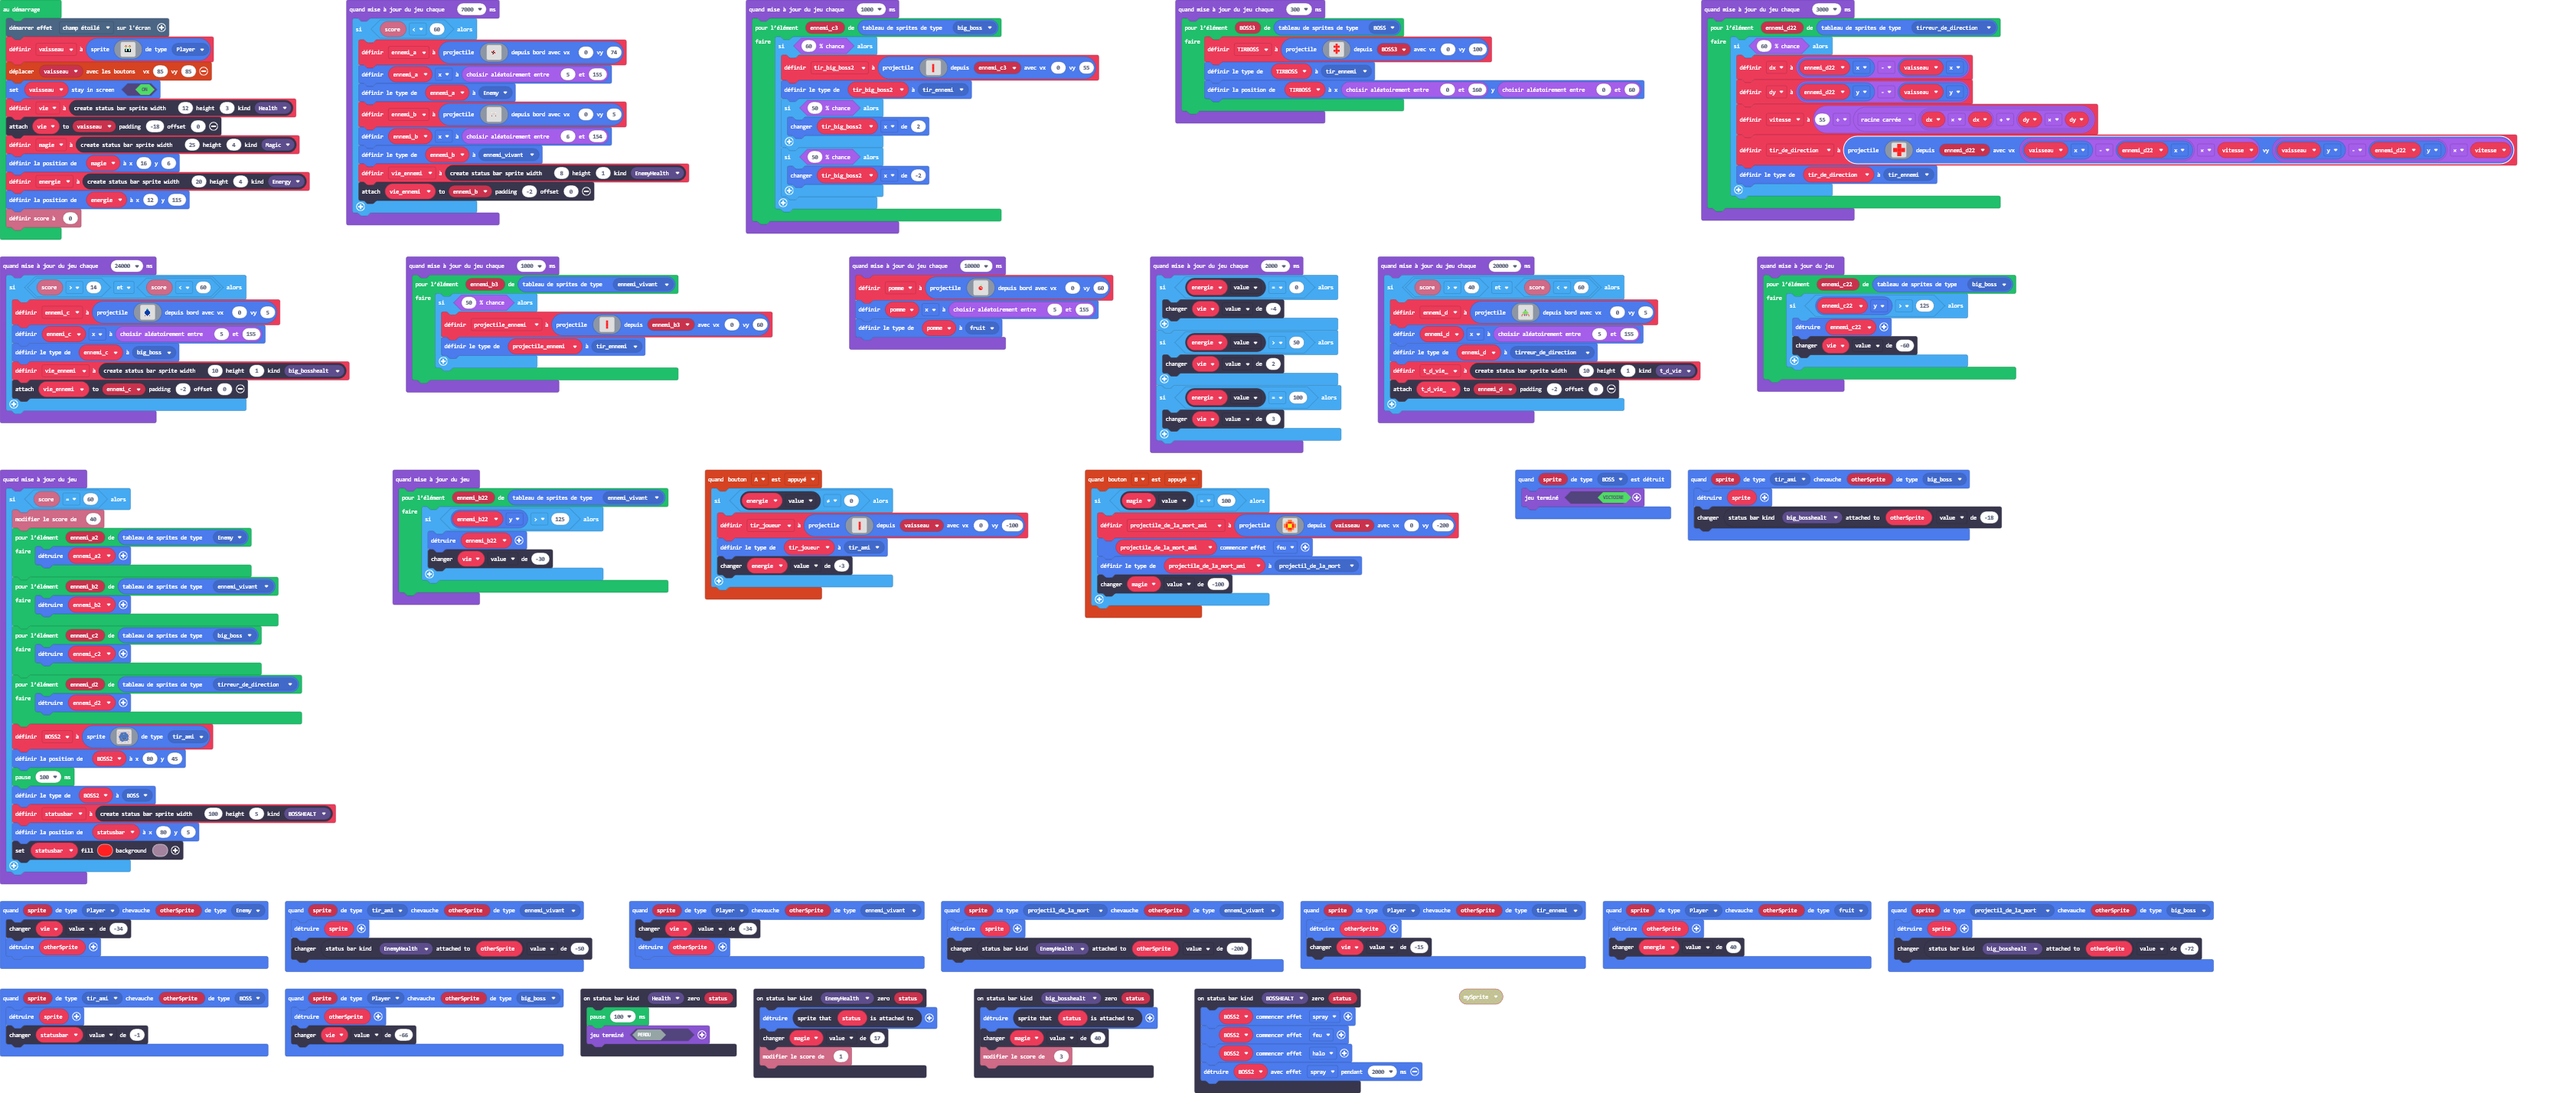
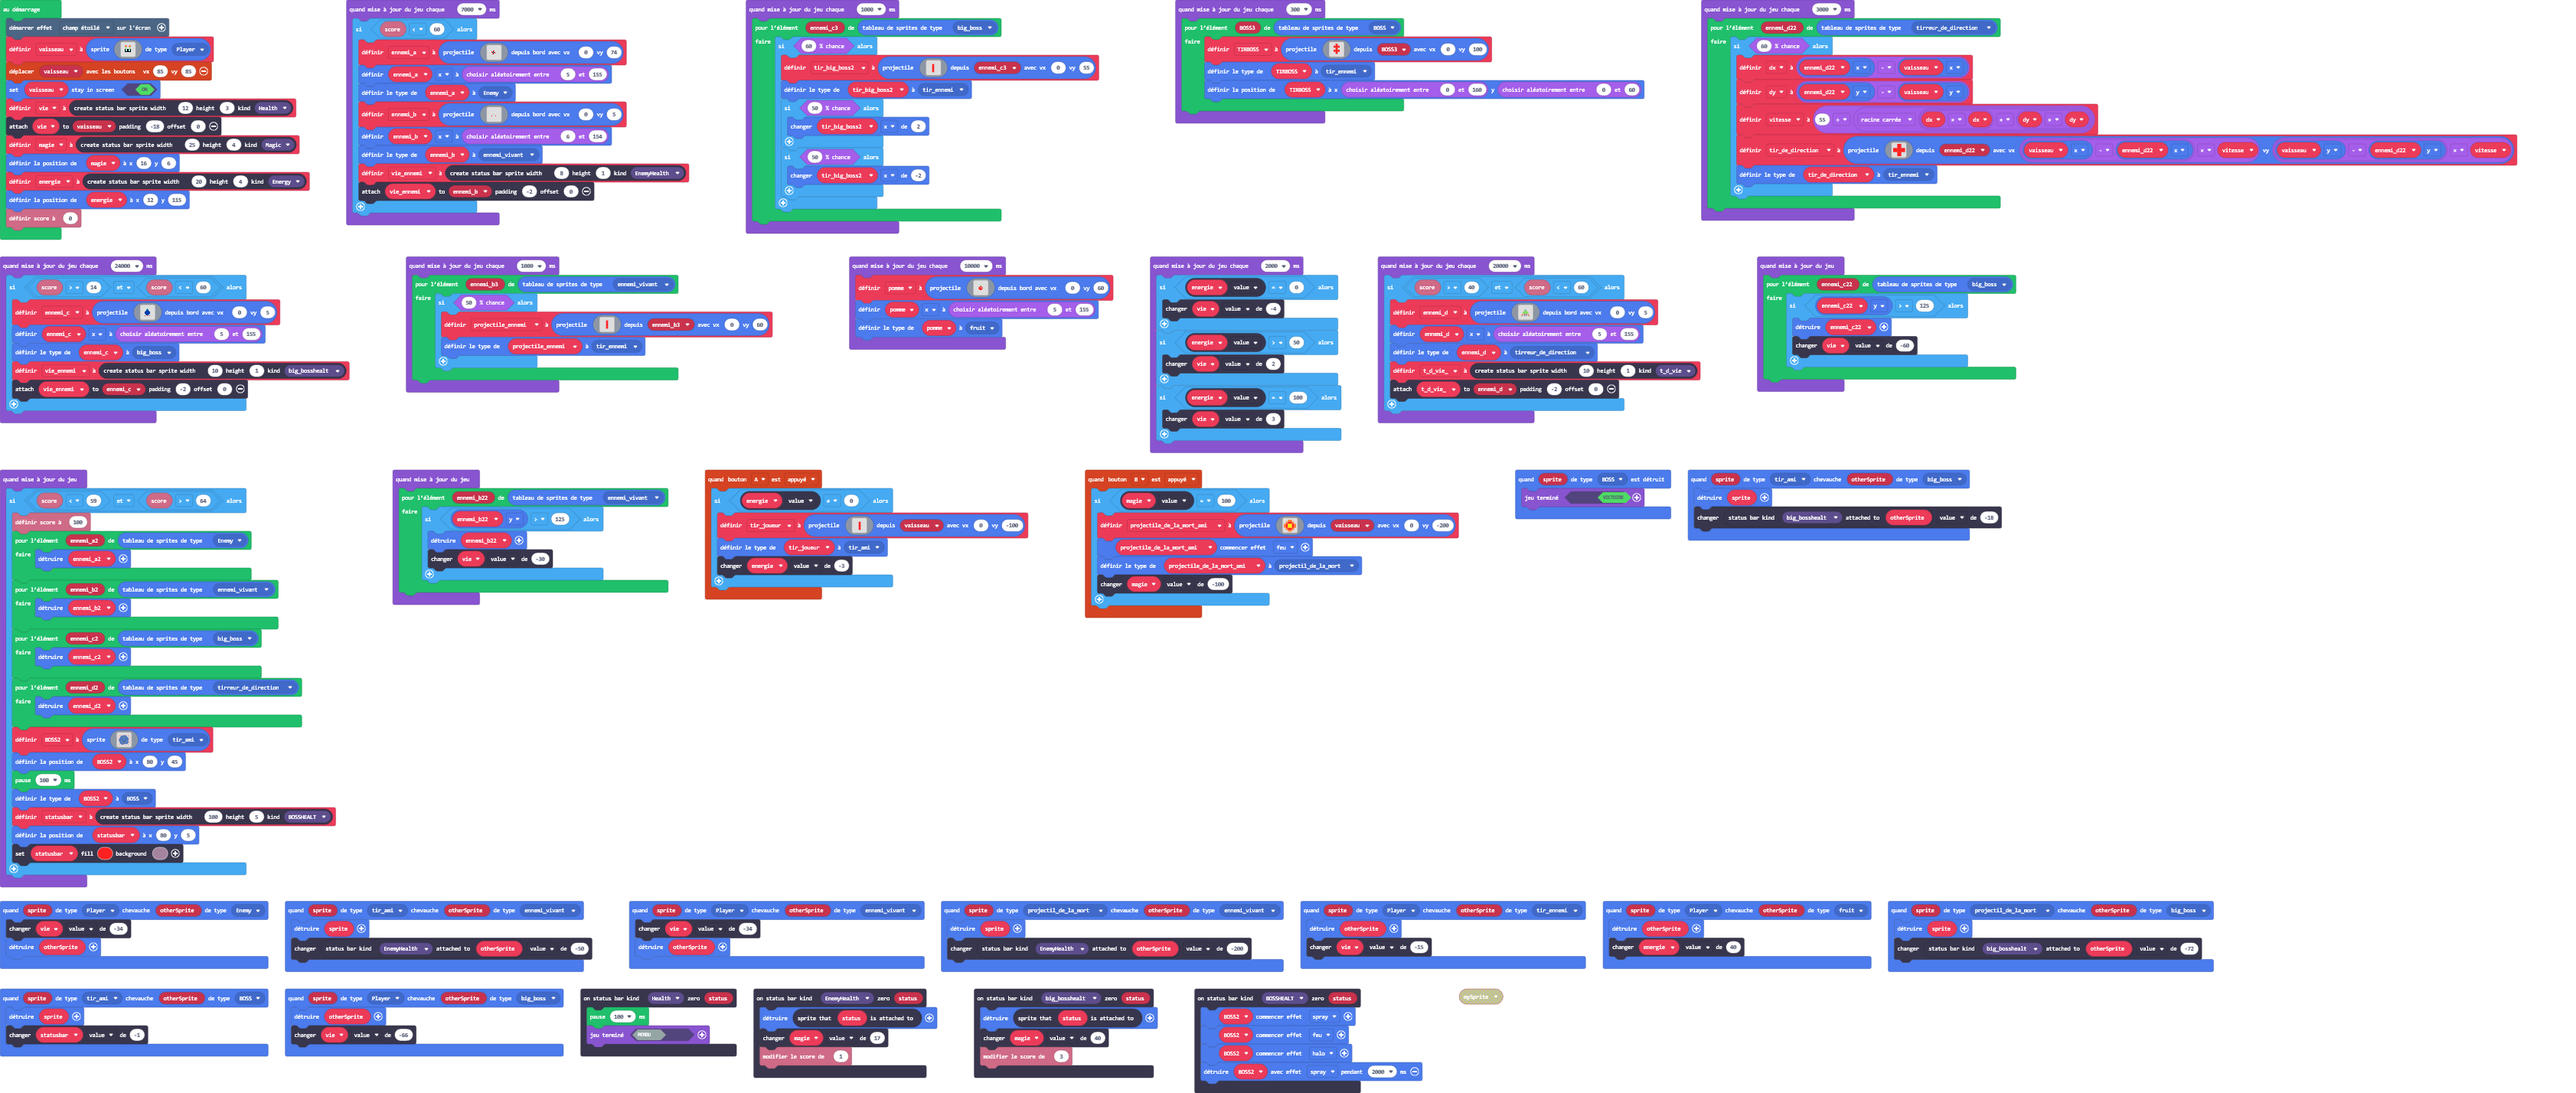
Mise à jour pxt.json, main.blocks, main.ts

Changed region(s): [[0.0, 0.4314, 0.1248, 0.8319]]

diff --git a/main.ts b/main.ts
@@ -165,8 +165,8 @@ game.onUpdate(function () {
     }
 })
 game.onUpdate(function () {
-    if (info.score() == 60) {
-        info.changeScoreBy(40)
+    if (info.score() < 59 && info.score() > 64) {
+        info.setScore(100)
         for (let ennemi_a2 of sprites.allOfKind(SpriteKind.Enemy)) {
             ennemi_a2.destroy()
         }
